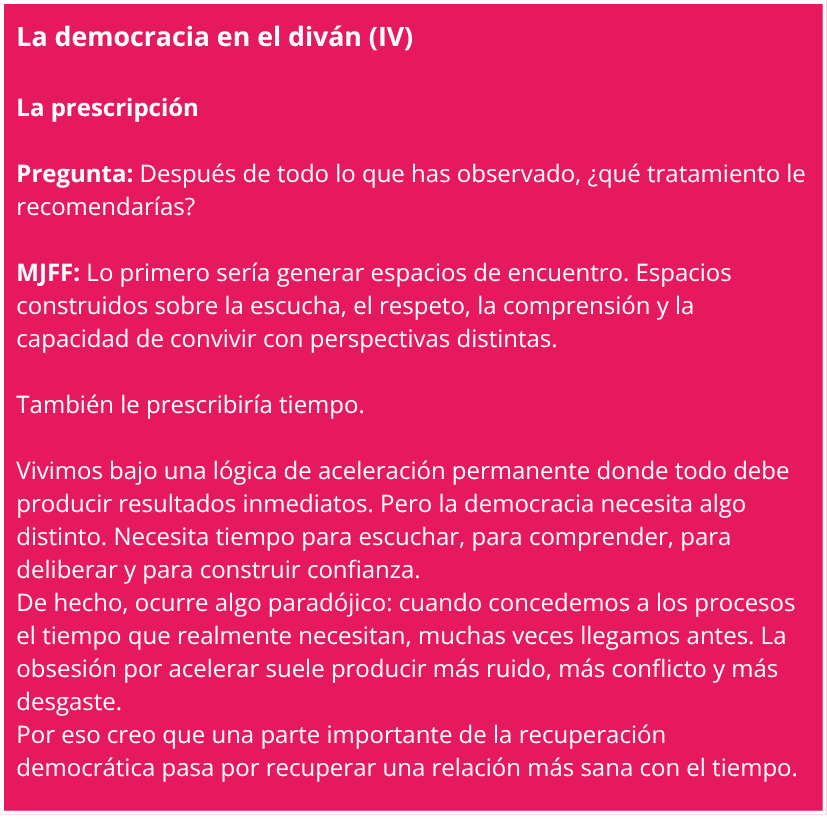
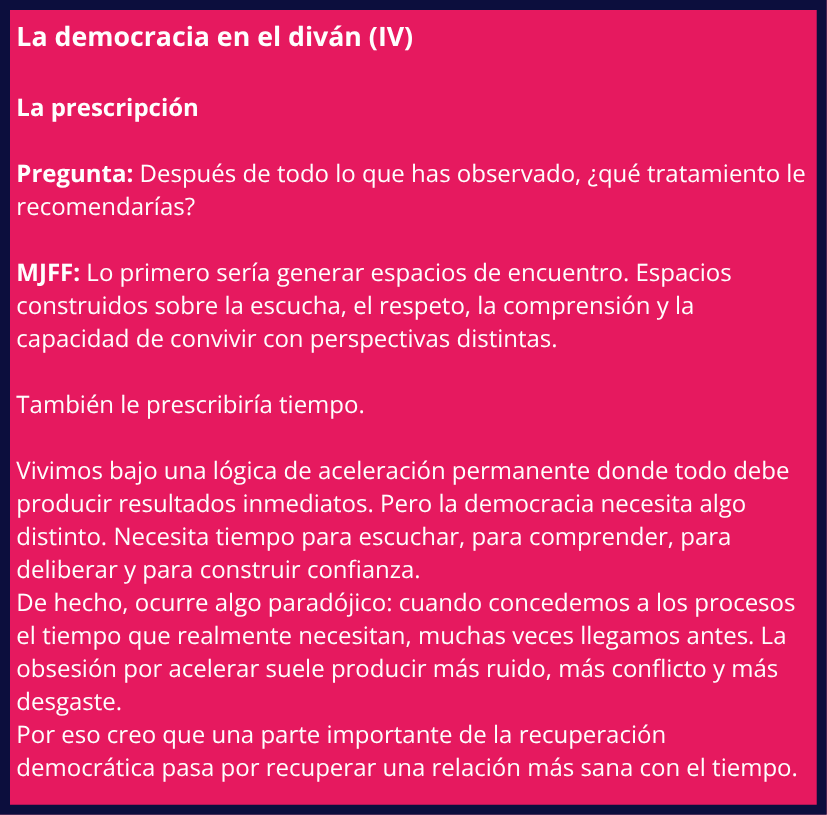
Update Artículo “masculinidades-conscientes”

Changed region(s): [[0.0, 0.0, 1.0, 1.0]]

diff --git a/_articles/es/masculinidades-conscientes.md b/_articles/es/masculinidades-conscientes.md
@@ -161,7 +161,7 @@ La reflexión crítica necesita tiempo. Necesita contexto. Necesita complejidad.
 
 Por eso el reto no consiste únicamente en desmontar esos discursos. También consiste en construir espacios alternativos que resulten significativos, acogedores y emocionalmente relevantes para los jóvenes.
 
-{% gallery { "simple": true, "images": [{"path":"/media/captura-de-pantalla-2026-08-07-a-las-12.02.38.png"}] } %}
+{% gallery { "simple": true, "images": [{"path":"/media/4.png"}] } %}
 
 ## **Construir antifragilidad democrática**
 
